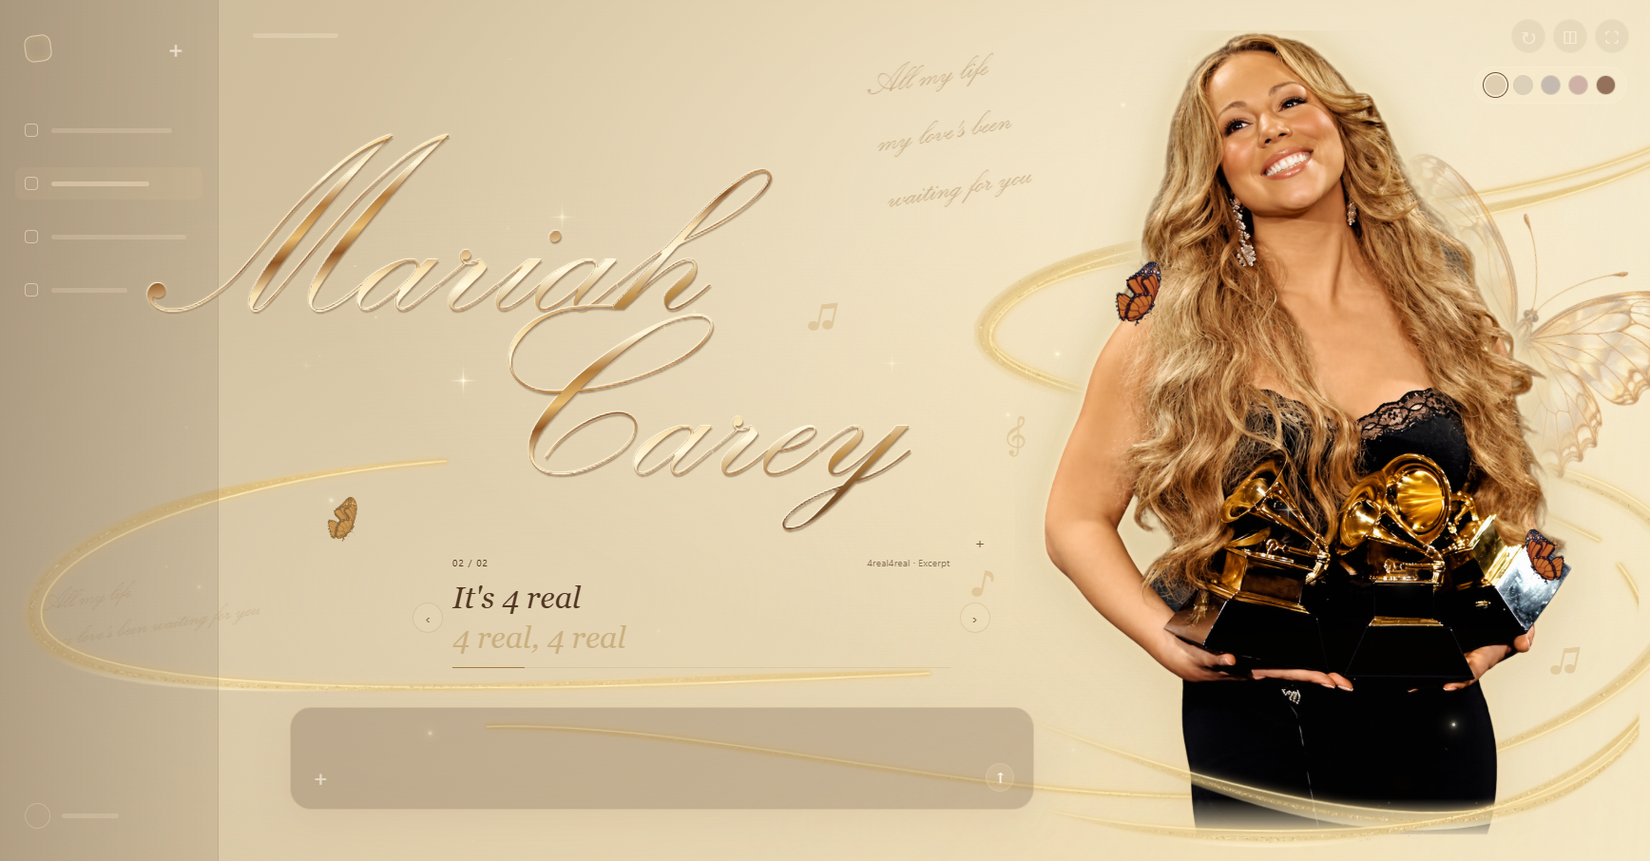
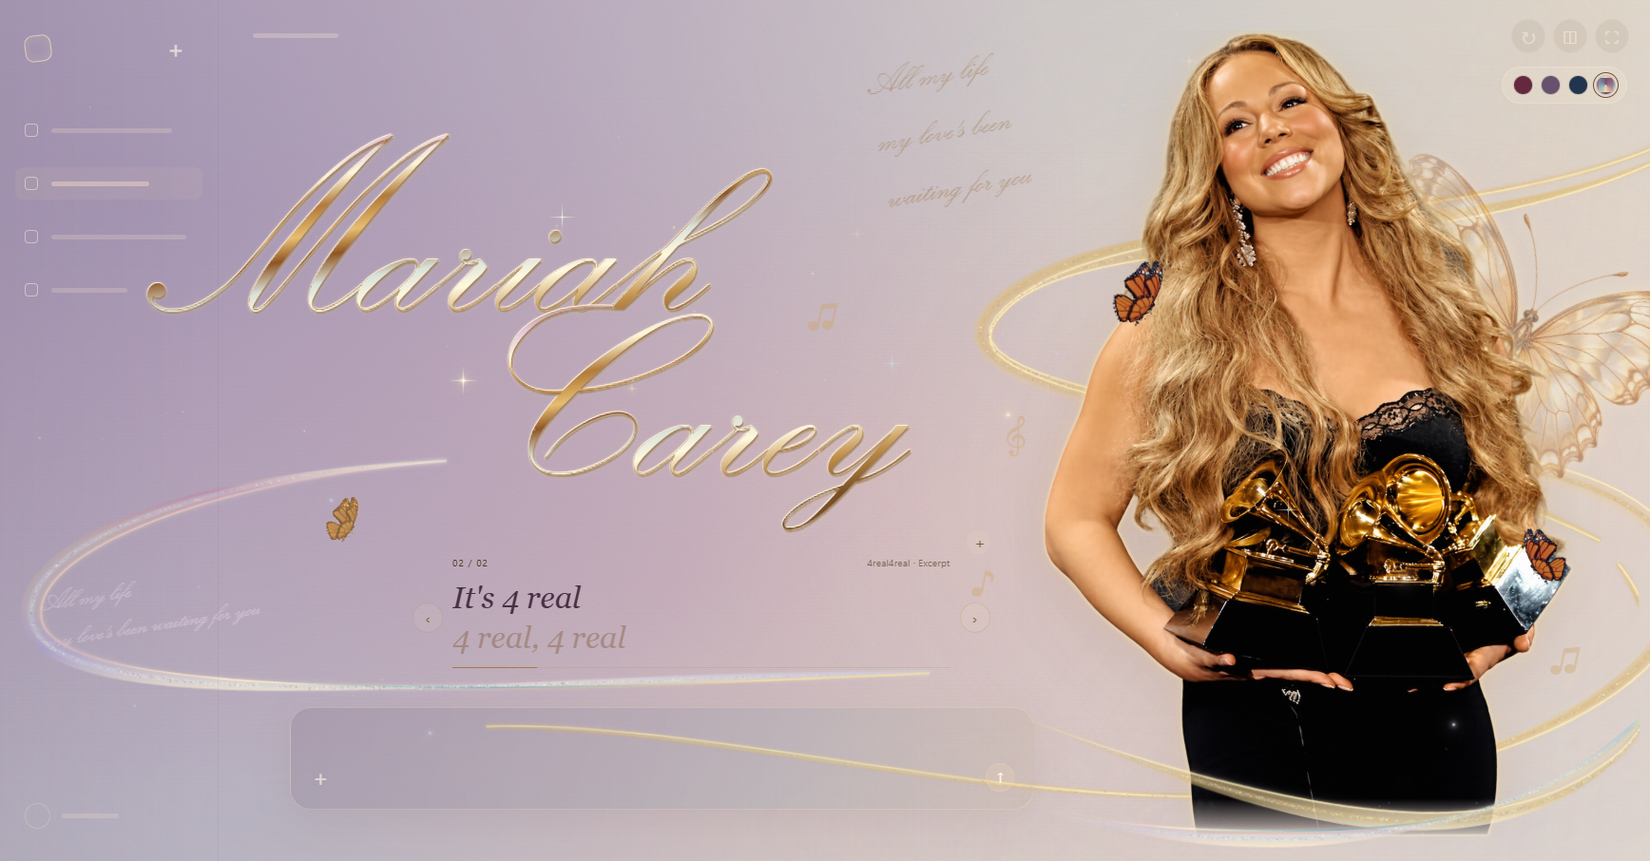
Add coordinated palettes and refresh website preview

diff --git a/index.html b/index.html
@@ -6,13 +6,13 @@
 <svg width="0" height="0" aria-hidden="true" style="position:absolute"><filter id="gold" x="-10%" y="-10%" width="120%" height="120%"><feMorphology in="SourceAlpha" operator="dilate" radius="1.8" result="wide"/><feComposite in="wide" in2="SourceAlpha" operator="out" result="edge"/><feFlood flood-color="#ffe7b3"/><feComposite in2="edge" operator="in" result="stroke"/><feGaussianBlur stdDeviation="3"/><feMerge><feMergeNode/><feMergeNode in="stroke"/></feMerge></filter></svg>
 <div class="stage" id="stage"><div class="beam"></div><div class="halo"></div><div class="floor"></div><img class="portrait outline" src="portrait.png" alt=""><img class="portrait photo" src="portrait.png" alt="完整人物与奖杯"><canvas id="dust"></canvas><div class="shell"><aside class="sidebar"><div class="sidehead"><div class="mark"></div><button class="smallplus" title="清空预览对话" aria-label="清空预览对话" id="clear">＋</button></div><div class="bars" aria-hidden="true"><div class="navrow"><span class="line"></span></div><div class="navrow"><span class="line" style="width:58%"></span></div><div class="navrow"><span class="line" style="width:80%"></span></div><div class="navrow"><span class="line" style="width:45%"></span></div></div><div class="sidefoot" aria-hidden="true"><span class="avatar"></span><span class="line" style="width:60px"></span></div></aside><main class="main"><div class="topline" aria-hidden="true"></div><div class="messages" id="messages"></div><form class="composer" id="composer"><textarea aria-label="输入文字测试背景可读性" spellcheck="false"></textarea><div class="composebottom"><span class="plus" aria-hidden="true">＋</span><button class="send" aria-label="显示测试文字" title="显示测试文字">↑</button></div></form></main></div></div><div class="controls"><button id="replay" title="重播入场动画（R）" aria-label="重播入场动画">↻</button><button id="toggle" title="显示或隐藏界面（H）" aria-label="显示或隐藏界面">◫</button><button id="fullscreen" title="全屏预览（F）" aria-label="全屏预览">⛶</button></div>
 <script>
-const stage=document.querySelector('#stage'),canvas=document.querySelector('#dust'),ctx=canvas.getContext('2d');let w,h;function resize(){w=innerWidth;h=innerHeight;canvas.width=w*devicePixelRatio;canvas.height=h*devicePixelRatio;ctx.setTransform(devicePixelRatio,0,0,devicePixelRatio,0,0)}resize();addEventListener('resize',resize);const particles=Array.from({length:18},()=>({x:Math.random(),y:Math.random(),r:.5+Math.random()*1.3,s:.000015+Math.random()*.000035,p:Math.random()*6}));let last=0;function frame(t){const dt=Math.min(t-last,40);last=t;ctx.clearRect(0,0,w,h);for(const p of particles){p.y-=p.s*dt;if(p.y<0)p.y=1;ctx.globalAlpha=.12+.28*(.5+.5*Math.sin(t/1800+p.p));ctx.fillStyle='#ffe5b3';ctx.beginPath();ctx.arc(p.x*w+Math.sin(t/4000+p.p)*12,p.y*h,p.r,0,Math.PI*2);ctx.fill()}requestAnimationFrame(frame)}if(!matchMedia('(prefers-reduced-motion: reduce)').matches)requestAnimationFrame(frame);function replay(){for(const el of document.querySelectorAll('.photo,.outline,.shell')){el.style.animation='none';void el.offsetWidth;el.style.animation=''}}function toggle(){stage.classList.toggle('hidden')}function full(){if(document.fullscreenElement)document.exitFullscreen();else document.documentElement.requestFullscreen().catch(()=>{})}document.querySelector('#replay').onclick=replay;document.querySelector('#toggle').onclick=toggle;document.querySelector('#fullscreen').onclick=full;document.querySelector('#clear').onclick=()=>document.querySelector('#messages').replaceChildren();document.querySelector('#composer').onsubmit=e=>{e.preventDefault();const input=document.querySelector('textarea');if(!input.value.trim())return;const bubble=document.createElement('div');bubble.className='bubble';bubble.textContent=input.value;document.querySelector('#messages').append(bubble);input.value='';bubble.scrollIntoView({block:'nearest'})};addEventListener('keydown',e=>{if(e.target.matches('textarea,input'))return;if(e.key.toLowerCase()==='r')replay();if(e.key.toLowerCase()==='h')toggle();if(e.key.toLowerCase()==='f')full()});
+const stage=document.querySelector('#stage'),canvas=document.querySelector('#dust'),ctx=canvas.getContext('2d');let w,h;function resize(){w=innerWidth;h=innerHeight;canvas.width=w*devicePixelRatio;canvas.height=h*devicePixelRatio;ctx.setTransform(devicePixelRatio,0,0,devicePixelRatio,0,0)}resize();addEventListener('resize',resize);const particles=Array.from({length:18},()=>({x:Math.random(),y:Math.random(),r:.5+Math.random()*1.3,s:.000015+Math.random()*.000035,p:Math.random()*6}));let last=0;function frame(t){const dt=Math.min(t-last,40);last=t;ctx.clearRect(0,0,w,h);for(const p of particles){p.y-=p.s*dt;if(p.y<0)p.y=1;ctx.globalAlpha=.12+.28*(.5+.5*Math.sin(t/1800+p.p));ctx.fillStyle=p.p<2?({wine:'#e7a8bf',violet:'#c5acf0',blue:'#93c8eb',prism:'#b7c9ee'}[stage.dataset.accent]||'#ffe5b3'):'#ffe5b3';ctx.beginPath();ctx.arc(p.x*w+Math.sin(t/4000+p.p)*12,p.y*h,p.r,0,Math.PI*2);ctx.fill()}requestAnimationFrame(frame)}if(!matchMedia('(prefers-reduced-motion: reduce)').matches)requestAnimationFrame(frame);function replay(){for(const el of document.querySelectorAll('.photo,.outline,.shell')){el.style.animation='none';void el.offsetWidth;el.style.animation=''}}function toggle(){stage.classList.toggle('hidden')}function full(){if(document.fullscreenElement)document.exitFullscreen();else document.documentElement.requestFullscreen().catch(()=>{})}document.querySelector('#replay').onclick=replay;document.querySelector('#toggle').onclick=toggle;document.querySelector('#fullscreen').onclick=full;document.querySelector('#clear').onclick=()=>document.querySelector('#messages').replaceChildren();document.querySelector('#composer').onsubmit=e=>{e.preventDefault();const input=document.querySelector('textarea');if(!input.value.trim())return;const bubble=document.createElement('div');bubble.className='bubble';bubble.textContent=input.value;document.querySelector('#messages').append(bubble);input.value='';bubble.scrollIntoView({block:'nearest'})};addEventListener('keydown',e=>{if(e.target.matches('textarea,input'))return;if(e.key.toLowerCase()==='r')replay();if(e.key.toLowerCase()==='h')toggle();if(e.key.toLowerCase()==='f')full()});
 </script><script src="butterflies.js?v=13"></script><style>
 .stage{background:radial-gradient(ellipse at 79% 30%,#ffe7b577,transparent 48%),linear-gradient(115deg,var(--left,#ae937a),var(--mid,#c4aa8e) 48%,var(--right,#e2ccb0))}.palette{position:fixed;right:24px;top:70px;z-index:12;display:flex;gap:10px;padding:9px 12px;border-radius:24px;background:#fff6df24;border:1px solid #fff1d944}.palette button{border:2px solid transparent;border-radius:50%;width:19px;height:19px;padding:0;box-shadow:0 0 0 1px #795c4933}.palette button[aria-pressed=true]{outline:1px solid #72513b;outline-offset:3px}body{color:#fff5e5}.composer{background:#6d554449}.sidebar{background:linear-gradient(90deg,#634e3e4d,#79634d27)}
 </style>
 <div class="palette" aria-label="背景配色"></div>
 <script>
-const themes=[['浅香槟','#c8b79a','#dfcfb0','#f1e5cb'],['奶油米白','#c3b5a0','#ddd0b9','#f0e5d0'],['浅灰米色','#aaa197','#c4bab0','#e1d8cc'],['淡藕粉','#b89a94','#d0b1a8','#ebd0c1'],['原暖棕','#745b4d','#94715a','#c49b73']];for(const [i,t] of themes.entries()){const btn=document.createElement('button');btn.style.background=t[2];btn.title=t[0];btn.setAttribute('aria-label',t[0]);btn.setAttribute('aria-pressed',i===0?'true':'false');btn.onclick=()=>{['--left','--mid','--right'].forEach((v,n)=>document.documentElement.style.setProperty(v,t[n+1]));document.querySelectorAll('.palette button').forEach(b=>b.setAttribute('aria-pressed',String(b===btn)))};document.querySelector('.palette').append(btn)}
+const themes=[['香槟 × 深酒红','#65283d','#b58c89','#f1e5cb','wine'],['香槟 × 烟紫','#67516f','#b4a0ba','#f1e5cb','violet'],['香槟 × 午夜蓝','#22354e','#8eabb5','#f1e5cb','blue'],['暮光撞色','#74516e','#bcb7ce','#f1e5cb','prism']];for(const [i,t] of themes.entries()){const btn=document.createElement('button');btn.style.background=t[4]==='prism'?'conic-gradient(#74516e,#a56e86,#e9d8ad,#7da5bc,#74516e)':t[1];btn.title=t[0];btn.setAttribute('aria-label',t[0]);btn.setAttribute('aria-pressed',i===0?'true':'false');btn.onclick=()=>{document.querySelector('.stage').dataset.accent=t[4];['--left','--mid','--right'].forEach((v,n)=>document.documentElement.style.setProperty(v,t[n+1]));document.querySelectorAll('.palette button').forEach(b=>b.setAttribute('aria-pressed',String(b===btn)))};document.querySelector('.palette').append(btn)}document.querySelector('.palette button:last-child').click();
 </script><style>
 /* Keep the photo filter constant: the previous bright filter changed at the end of the reveal. */
 .photo{animation:softPortrait 6s .7s cubic-bezier(.4,0,.6,1) both;will-change:opacity;filter:drop-shadow(0 18px 38px #3b201e44)}
@@ -42,7 +42,22 @@ const sparks=Array.from({length:14},(_,i)=>({x:Math.random(),y:Math.random(),pha
 function paintNameLight(time){nc.clearRect(0,0,nw,nh);const r=signature.getBoundingClientRect(),opacity=Number(getComputedStyle(signature).opacity),t=time/1000;nc.globalAlpha=opacity;for(const s of sparks){const u=(s.x+t*s.speed*.1)%1,x=r.left+r.width*(.12+u*.76),y=r.top+r.height*(.23+s.y*.59)+Math.sin(t*.5+s.phase)*9,alpha=.15+.65*Math.pow((Math.sin(t*1.3+s.phase)+1)/2,3);nc.globalAlpha=opacity*alpha;nc.fillStyle='#fff3c4';nc.shadowBlur=8;nc.shadowColor='#ffe7a1';nc.beginPath();nc.arc(x,y,s.size,0,Math.PI*2);nc.fill();if(s.size>2){nc.lineWidth=.65;nc.strokeStyle='#fff6d7';nc.beginPath();nc.moveTo(x-5,y);nc.lineTo(x+5,y);nc.moveTo(x,y-5);nc.lineTo(x,y+5);nc.stroke()}}nc.shadowBlur=0;if(!lessMotion)requestAnimationFrame(paintNameLight)}if(!lessMotion)requestAnimationFrame(paintNameLight);
 </script><style>
 .artist-name{left:-1%;top:24%;width:62%;aspect-ratio:900/330}.artist-name text{font-size:238px}.artist-name text:nth-of-type(2){font-size:244px}@media(max-width:1000px){.artist-name{left:-1%;top:28%;width:63%}}
-</style><link rel="stylesheet" href="theme-upgrade.css?v=1"><script src="theme-upgrade.js?v=2"></script><link rel="stylesheet" href="reference-visual.css?v=13"><script src="reference-visual.js?v=12"></script></html>
+
+.stage[data-accent="wine"]{background:radial-gradient(ellipse at 78% 27%,#fff3d9a6,transparent 53%),linear-gradient(108deg,#65283d 0%,#98636e 22%,#c9a8a0 43%,#e5d2b7 63%,#f1e5cb 88%)}
+.stage[data-accent="violet"]{background:radial-gradient(ellipse at 78% 27%,#fff3d9a6,transparent 53%),linear-gradient(108deg,#67516f 0%,#91829e 22%,#c0b1c0 43%,#e4d7c5 63%,#f1e5cb 88%)}
+.stage[data-accent="blue"]{background:radial-gradient(ellipse at 78% 27%,#fff3d9a6,transparent 53%),linear-gradient(108deg,#22354e 0%,#586f89 22%,#9eb1ba 43%,#d5d6c9 63%,#f1e5cb 88%)}
+.stage[data-accent="wine"] .sidebar{background:linear-gradient(90deg,#3c192a4d,#6b334127)}
+.stage[data-accent="violet"] .sidebar{background:linear-gradient(90deg,#3c2b514d,#68527827)}
+.stage[data-accent="blue"] .sidebar{background:linear-gradient(90deg,#11233d4d,#36536c27)}
+.stage[data-accent="wine"] .composer{background:#72465355}
+.stage[data-accent="violet"] .composer{background:#66516f55}
+.stage[data-accent="blue"] .composer{background:#3e5a7155}
+
+.stage[data-accent="blue"] .lyric-line:not(.lyric-next){color:#fff6e2}
+.stage[data-accent="blue"] .lyric-next{color:#ffecb8}
+.stage[data-accent="blue"] .lyrics-top{color:#fff1d3}
+.stage[data-accent="blue"] .bg-words.lower,.stage[data-accent="violet"] .bg-words.lower{color:#fff1d3;opacity:.4}
+</style><link rel="stylesheet" href="theme-upgrade.css?v=1"><script src="theme-upgrade.js?v=2"></script><link rel="stylesheet" href="reference-visual.css?v=17"><script src="reference-visual.js?v=14"></script></html>
 
 
 

diff --git a/reference-visual.js b/reference-visual.js
@@ -15,13 +15,14 @@ paths.forEach((d,i)=>{for(const [j,dy] of [-8,-3,0,4,10].entries()){const p=docu
 stage.querySelectorAll('.reference-ribbons').forEach((svg,layer)=>{
  let seed=481+layer*97;const random=()=>{seed=(Math.imul(seed,1664525)+1013904223)>>>0;return seed/4294967296};
  [...svg.querySelectorAll('.reference-thread.soft')].forEach((path,k)=>{
-  const length=path.getTotalLength(),batches=['','','',''];
-  const gradient=document.createElementNS(NS,'linearGradient'),gid=`translucent-${layer}-${k}`;gradient.id=gid;gradient.setAttribute('x2','0');gradient.setAttribute('y2','1');gradient.innerHTML='<stop stop-color="#fff0c4" stop-opacity=".95"/><stop offset=".14" stop-color="#d5b36b" stop-opacity=".58"/><stop offset=".48" stop-color="#f0d495" stop-opacity=".16"/><stop offset=".83" stop-color="#dfc082" stop-opacity=".48"/><stop offset="1" stop-color="#fff3d0" stop-opacity=".85"/>';svg.querySelector('defs').append(gradient);
+  path.classList.toggle('accent-soft',k%2===1);const length=path.getTotalLength(),batches=['','','',''];
+  const gradient=document.createElementNS(NS,'linearGradient'),gid=`translucent-${layer}-${k}`;gradient.id=gid;gradient.setAttribute('x2','0');gradient.setAttribute('y2','1');gradient.innerHTML='<stop stop-color="#fff0c4" stop-opacity=".95"/><stop offset=".14" stop-color="var(--effect-color,#d5b36b)" stop-opacity=".65"/><stop offset=".48" stop-color="#f0d495" stop-opacity=".16"/><stop offset=".83" stop-color="var(--effect-light,#dfc082)" stop-opacity=".56"/><stop offset="1" stop-color="#fff3d0" stop-opacity=".85"/>';svg.querySelector('defs').append(gradient);if(k%2===0){gradient.querySelectorAll('stop')[1].setAttribute('stop-color','#d5b36b');gradient.querySelectorAll('stop')[3].setAttribute('stop-color','#dfc082')}
+  if(!svg.querySelector('.accent-trail-gradient')){const g=document.createElementNS(NS,'linearGradient');g.id=`accentTrail-${layer}`;g.setAttribute('class','accent-trail-gradient');g.setAttribute('x2','1');g.setAttribute('y2','.3');g.innerHTML='<stop stop-color="#fff1c6"/><stop offset=".28" stop-color="var(--effect-light)"/><stop offset=".48" stop-color="#fff8df"/><stop offset=".72" stop-color="var(--effect-color)"/><stop offset="1" stop-color="#f6dfa6"/>';svg.querySelector('defs').append(g)}
   for(let band=0;band<1;band++){
    const edges=[[],[]];
    for(let n=0;n<=160;n++){const t=n/160,pos=t*length,p=path.getPointAtLength(pos),a=path.getPointAtLength(Math.max(0,pos-1)),b=path.getPointAtLength(Math.min(length,pos+1)),dx=b.x-a.x,dy=b.y-a.y,norm=Math.hypot(dx,dy)||1;const taper=Math.pow(Math.sin(Math.PI*t),.7),width=Math.sin(t*Math.PI*1.3+k*.5)*taper*11,offset=band?Math.sin(t*Math.PI*2)*9:0;for(let side=0;side<2;side++){const off=offset+(side?1:-1)*width;edges[side].push([p.x-dy/norm*off,p.y+dx/norm*off])}}
    const sheet=document.createElementNS(NS,'path');sheet.setAttribute('d','M '+edges[0].map(v=>v.join(' ')).join(' L ')+' L '+[...edges[1]].reverse().map(v=>v.join(' ')).join(' L ')+' Z');sheet.setAttribute('fill',`url(#${gid})`);sheet.setAttribute('class','translucent-sheet');svg.insertBefore(sheet,path);
-   for(const edge of edges.slice(0,1)){const ridge=document.createElementNS(NS,'path');ridge.setAttribute('d','M '+edge.map(v=>v.join(' ')).join(' L '));ridge.setAttribute('class','translucent-ridge');svg.append(ridge)}
+   for(const edge of edges.slice(0,1)){const ridge=document.createElementNS(NS,'path');ridge.setAttribute('d','M '+edge.map(v=>v.join(' ')).join(' L '));ridge.setAttribute('class','translucent-ridge');ridge.style.stroke=k%2===1?`url(#accentTrail-${layer})`:'#ffefbd';svg.append(ridge)}
   }
   for(let i=0;i<1600;i++){
    const t=random(),pos=t*length,p=path.getPointAtLength(pos),a=path.getPointAtLength(Math.max(0,pos-1)),b=path.getPointAtLength(Math.min(length,pos+1));
@@ -30,7 +31,7 @@ stage.querySelectorAll('.reference-ribbons').forEach((svg,layer)=>{
    const x=p.x-dy/norm*spread,y=p.y+dx/norm*spread,r=(halo?.18+random()*.4:.25+random()*.5)*(.25+.75*taper),color=Math.floor(random()*4);
    batches[color]+=`M ${(x-r).toFixed(2)} ${y.toFixed(2)}a ${r.toFixed(2)} ${r.toFixed(2)} 0 1 0 ${(2*r).toFixed(2)} 0a ${r.toFixed(2)} ${r.toFixed(2)} 0 1 0 ${(-2*r).toFixed(2)} 0`;
   }
-  batches.forEach((d,i)=>{const dots=document.createElementNS(NS,'path');dots.setAttribute('d',d);dots.setAttribute('fill',['#fff8dd','#e6d29a','#b89a55','#f4e6b6'][i]);dots.setAttribute('class','gold-grain');dots.style.animationDelay=`-${i+k*.7}s`;svg.append(dots)});
+  batches.forEach((d,i)=>{const dots=document.createElementNS(NS,'path');dots.setAttribute('d',d);dots.setAttribute('fill',['#fff8dd','#e6d29a','#b89a55','#f4e6b6'][i]);dots.setAttribute('class','gold-grain'+(i===1?' accent-grain':i===2?' accent-grain-light':''));dots.style.animationDelay=`-${i+k*.7}s`;svg.append(dots)});
  });
 });
 const veil=document.createElement('div');veil.className='portrait-base-veil';veil.setAttribute('aria-hidden','true');veil.innerHTML='<svg viewBox="0 0 700 160" preserveAspectRatio="none"><defs><linearGradient id="hemSatin" x2="0" y2="1"><stop stop-color="#fff9e9"/><stop offset=".4" stop-color="#dfcda2"/><stop offset=".7" stop-color="#f6ebd1"/><stop offset="1" stop-color="#c7b48b"/></linearGradient></defs><path d="M 0 145 C 200 140 280 100 420 106 S 610 85 700 45 L 700 160 L 0 160 Z" fill="url(#hemSatin)"/></svg>';stage.append(veil);
@@ -45,6 +46,7 @@ const metallic=['#fff4d2','#995e28','#f7db9e','#fff7d9','#b27a38','#e7bd72','#8f
 sig.querySelectorAll('#champagneInk stop').forEach((s,i)=>s.setAttribute('stop-color',metallic[i]));
 sig.querySelector('#satinRelief').innerHTML='<feDropShadow dx=".7" dy="1.9" stdDeviation=".55" flood-color="#71451f" flood-opacity=".75"/><feDropShadow dx="-.4" dy="-.8" stdDeviation=".2" flood-color="#fffbea" flood-opacity=".95"/><feDropShadow dx="0" dy="0" stdDeviation="1.2" flood-color="#ffe3a0" flood-opacity=".4"/>';
 const defs=document.querySelector('#gold').parentNode;
+defs.insertAdjacentHTML('beforeend','<filter id="portraitEdgeLight" x="-15%" y="-15%" width="130%" height="130%" color-interpolation-filters="sRGB"><feComponentTransfer in="SourceAlpha" result="cleanAlpha"><feFuncA type="linear" slope="1.25" intercept="-.125"/></feComponentTransfer><feMorphology in="cleanAlpha" operator="dilate" radius="1" result="expanded"/><feComposite in="expanded" in2="cleanAlpha" operator="out" result="edge"/><feGaussianBlur in="edge" stdDeviation="1" result="softEdge"/><feFlood flood-color="#fff0c8" flood-opacity=".8"/><feComposite in2="softEdge" operator="in" result="goldEdge"/><feGaussianBlur in="edge" stdDeviation="3" result="outerEdge"/><feFlood class="rim-accent-flood" flood-opacity=".35"/><feComposite in2="outerEdge" operator="in" result="accentEdge"/><feMerge><feMergeNode in="accentEdge"/><feMergeNode in="goldEdge"/></feMerge></filter>');
 defs.insertAdjacentHTML('beforeend','<filter id="goldWingFilter" color-interpolation-filters="sRGB"><feColorMatrix type="matrix" values=".25 .5 .15 0 .32 .18 .38 .10 0 .19 .08 .18 .05 0 .06 0 0 0 .76 0"/><feDropShadow dx="0" dy="0" stdDeviation="1" flood-color="#ffe2a4" flood-opacity=".6"/></filter>');
 const lyricPanel=document.querySelector('.lyrics-panel'),lyricWindow=lyricPanel.querySelector('.lyric-window');
 function fitLines(){for(const row of lyricWindow.children){row.style.fontSize='';const width=row.clientWidth;if(!width)continue;const base=parseFloat(getComputedStyle(row).fontSize);const overflow=row.scrollWidth;if(overflow>width)row.style.fontSize=(base*(width-3)/overflow)+'px'}for(const row of document.querySelectorAll('.bg-words span')){row.style.fontSize='';const base=parseFloat(getComputedStyle(row).fontSize);if(row.scrollWidth>row.clientWidth)row.style.fontSize=(base*(row.clientWidth-2)/row.scrollWidth)+'px'}}

diff --git a/reference-visual.css b/reference-visual.css
@@ -112,3 +112,46 @@
   75%{transform:translate(12px,0) rotate(.1deg) scale(1.004)}
 }
 @media(prefers-reduced-motion:reduce){.reference-ribbons,.reference-ribbons.front{animation:none;transform:none;will-change:auto;opacity:1}}
+
+/* Carry each accent through lighting, ribbon surfaces, and sparse particles. */
+.stage[data-accent="wine"]{--effect-color:#a95778;--effect-light:#edbed0;--effect-glow:#b85b8180;--effect-haze:#ad587326}
+.stage[data-accent="violet"]{--effect-color:#9073bf;--effect-light:#d5bff5;--effect-glow:#ab86da80;--effect-haze:#9f7bc12b}
+.stage[data-accent="blue"]{--effect-color:#538db5;--effect-light:#b5dff7;--effect-glow:#7bbde080;--effect-haze:#7caec52b}
+.stage[data-accent] .translucent-ridge{filter:drop-shadow(0 0 2px #edd9a6) drop-shadow(0 0 5px var(--effect-glow))}
+.stage[data-accent] .reference-thread.soft{stroke:var(--effect-light);opacity:.36}
+.stage[data-accent] .accent-grain{fill:var(--effect-color)}
+.stage[data-accent] .accent-grain-light{fill:var(--effect-light)}
+.stage[data-accent] .reference-star:nth-child(3n){background:var(--effect-light);box-shadow:0 0 5px 1px var(--effect-light),0 0 15px 4px var(--effect-glow)}
+.stage[data-accent] .reference-star:nth-child(3n):before,.stage[data-accent] .reference-star:nth-child(3n):after{background:linear-gradient(transparent,var(--effect-light),transparent)}
+.stage[data-accent] .halo{background:radial-gradient(ellipse at 62% 58%,var(--effect-haze),transparent 65%)}
+.stage[data-accent] .floor{background:radial-gradient(ellipse,var(--effect-haze),transparent 70%)}
+.stage[data-accent] .rim-light{filter:drop-shadow(0 0 2px #fffbe5) drop-shadow(0 0 6px #fff1ce) drop-shadow(0 0 17px var(--effect-light)) drop-shadow(0 0 25px var(--effect-glow))}
+.stage[data-accent] .reference-butterfly{filter:drop-shadow(0 0 9px #fff0c2) drop-shadow(0 0 16px var(--effect-glow))}
+
+.stage[data-accent] .reference-thread.soft{stroke:#d9b66f;opacity:.48}
+.stage[data-accent] .reference-thread.soft.accent-soft{stroke:var(--effect-light);opacity:.36}
+
+/* Draw light from the cutout alpha only; never clip a broad glow to its box. */
+.stage[data-accent] .rim-light{mask-image:none;filter:url(#portraitEdgeLight)}
+.rim-accent-flood{flood-color:var(--effect-light,#fff0c8)}
+
+/* An asymmetric twilight composition: jewel colors collect at distinct focal points. */
+.stage[data-accent="prism"]{--effect-color:#a98daf;--effect-light:#cfdeea;--effect-glow:#bdb0cd55;--effect-haze:#a89bbb17;background:radial-gradient(ellipse 57% 68% at 9% 24%,#8f80aa80,transparent 100%),radial-gradient(ellipse 48% 59% at 39% 68%,#c28eaa5c,transparent 100%),radial-gradient(ellipse 51% 53% at 17% 94%,#8caec35c,transparent 100%),radial-gradient(ellipse 43% 64% at 85% 54%,#dcc3bf66,transparent 100%),radial-gradient(ellipse 56% 49% at 72% 8%,#b5c8d150,transparent 100%),radial-gradient(ellipse 51% 58% at 92% 96%,#c1c3d666,transparent 100%),linear-gradient(120deg,#b3a5ba 0%,#c9b8c1 30%,#dfd2c5 61%,#efe3cb 100%)}
+.stage[data-accent="prism"] .sidebar{background:linear-gradient(90deg,#65506b16,transparent);border-right-color:transparent}
+.stage[data-accent="prism"] .composer{background:linear-gradient(105deg,#806c8440,#8093a132 66%,#b9a58c32);border-color:#eee0c54a}
+.stage[data-accent="prism"] .beam{background:conic-gradient(from 155deg at 75% 0%,transparent 0deg,#d1bde41c 12deg,transparent 26deg,#eac4ad23 37deg,transparent 50deg)}
+.stage[data-accent="prism"] .lyric-line:not(.lyric-next){color:#493044}
+.stage[data-accent="prism"] .lyric-next{color:#8b664b}
+.stage[data-accent="prism"] .bg-words.lower{color:#f3dfec;opacity:.4}
+.stage[data-accent="prism"] #translucent-0-1 stop:nth-child(2){stop-color:#bb7f9c}
+.stage[data-accent="prism"] #translucent-0-1 stop:nth-child(4){stop-color:#aca3db}
+.stage[data-accent="prism"] #translucent-1-1 stop:nth-child(2){stop-color:#7aafc9}
+.stage[data-accent="prism"] #translucent-1-1 stop:nth-child(4){stop-color:#d9bddb}
+.stage[data-accent="prism"] .accent-trail-gradient stop:nth-child(2){stop-color:#dcb8cd}
+.stage[data-accent="prism"] .accent-trail-gradient stop:nth-child(4){stop-color:#77a9c5}
+.stage[data-accent="prism"] .reference-ribbons:not(.front) .accent-grain{fill:#b982a6}
+.stage[data-accent="prism"] .reference-ribbons.front .accent-grain{fill:#80b4cf}
+.stage[data-accent="prism"] .reference-star:nth-child(4n){background:#e4bfd8;box-shadow:0 0 8px #dca7cf88}
+.stage[data-accent="prism"] .reference-star:nth-child(4n+1){background:#b5daeb;box-shadow:0 0 8px #9fcbe088}
+.stage[data-accent="prism"] #champagneInk stop:nth-child(3){stop-color:#e4c7dc}
+.stage[data-accent="prism"] #champagneInk stop:nth-child(8){stop-color:#d9e2da}

diff --git a/README.md b/README.md
@@ -4,7 +4,7 @@
 
 [![Mariah Carey 香槟金动态壁纸预览](docs/preview.png)](https://lambily555.github.io/Mariah-Carey-wallpaper/)
 
-浅香槟金动态壁纸与独立界面预览，包含人物渐显、金色丝带、蝴蝶扇翅、星光和歌词短句。
+以香槟金为主的动态壁纸，包含人物渐显、环绕丝带、蝴蝶扇翅、星光与歌词短句。提供深酒红、烟紫、午夜蓝三套配色，以及柔和融合的「暮光撞色」；配色同时作用于背景、丝带与粒子。
 
 ## 使用
 
@@ -13,7 +13,7 @@
 - **R**：重播入场动画
 - **H**：隐藏或显示界面，查看纯壁纸
 - **F**：全屏
-- 右上角圆点切换配色
+- 右上角四个圆点切换配色，默认展示「暮光撞色」
 - 歌词两侧箭头切换歌曲，小「＋」导入自己持有的 TXT / LRC 文件
 
 滚动区内置《Butterfly》和《4real4real》的简短节选，背景使用《All My Life》的简短节选；不包含完整歌词或音频。导入内容仅保存在当前浏览器。
